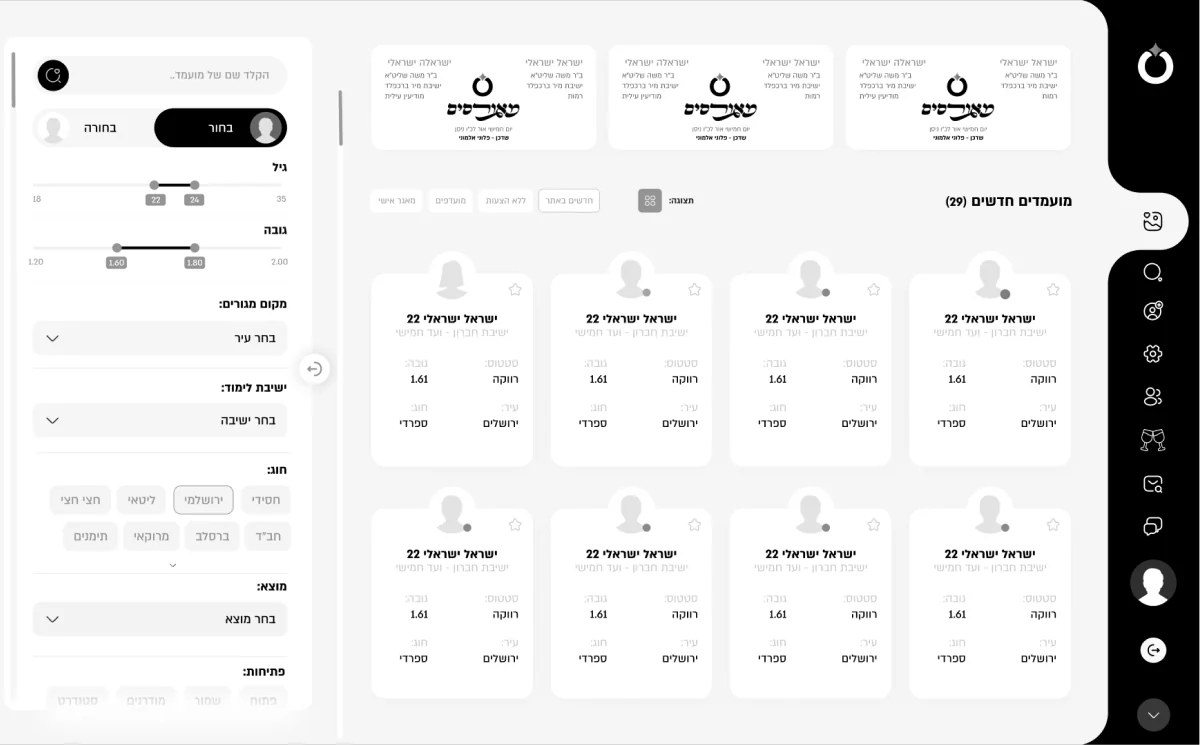
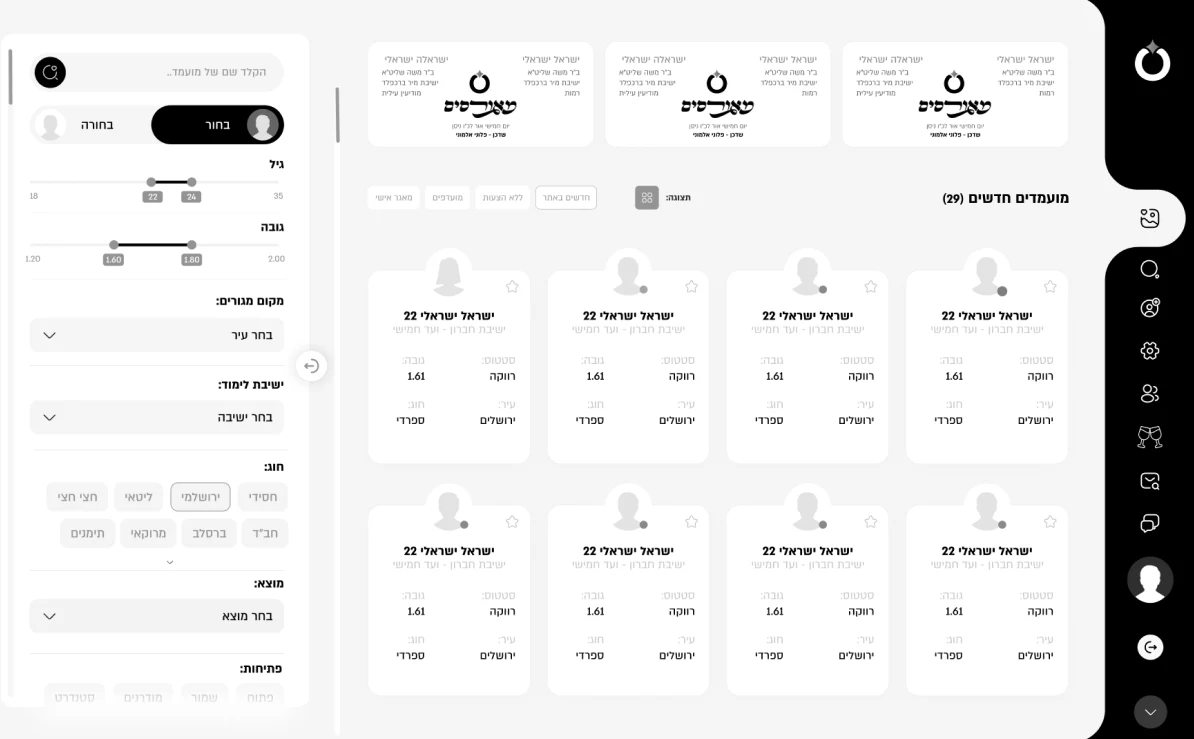
Trim screen edges and realign screen connectors
Removes the light edge lines and white corners from the screen
images, and makes each dashed connector run from one card's edge
to the flat top edge of the next card.

diff --git a/vort/index.html b/vort/index.html
@@ -295,14 +295,14 @@
   <section class="screens" id="screens">
     <div class="sec-head r"><span class="num">07</span><h2>Screens</h2></div>
 
-    <svg class="conn" style="left:1032px;top:738px" width="96" height="112" viewBox="0 0 96 112"><path d="M0 1 H72 A23 23 0 0 1 95 24 V106"/><circle cx="95" cy="108" r="3.5"/></svg>
-    <svg class="conn" style="left:36px;top:1328px;transform:scaleX(-1)" width="96" height="112" viewBox="0 0 96 112"><path d="M0 1 H72 A23 23 0 0 1 95 24 V106"/><circle cx="95" cy="108" r="3.5"/></svg>
-    <svg class="conn" style="left:1032px;top:1934px" width="96" height="112" viewBox="0 0 96 112"><path d="M0 1 H72 A23 23 0 0 1 95 24 V106"/><circle cx="95" cy="108" r="3.5"/></svg>
+    <svg class="conn" style="left:989px;top:619px" width="95" height="154" viewBox="0 0 95 154" aria-hidden="true"><path d="M0 1 H67 A24 24 0 0 1 91 25 V150"/><circle cx="91" cy="150" r="3.5"/></svg>
+    <svg class="conn" style="left:85px;top:1223px" width="95" height="154" viewBox="0 0 95 154" aria-hidden="true"><path d="M95 1 H28 A24 24 0 0 0 4 25 V150"/><circle cx="4" cy="150" r="3.5"/></svg>
+    <svg class="conn" style="left:989px;top:1827px" width="95" height="154" viewBox="0 0 95 154" aria-hidden="true"><path d="M0 1 H67 A24 24 0 0 1 91 25 V150"/><circle cx="91" cy="150" r="3.5"/></svg>
 
-    <div class="scr-card r" style="left:0;top:166px"><div class="mac"><div class="mac-lid"><span class="mac-cam"></span><img class="mac-scr" src="assets/scr-1.webp" alt="Home page – new candidates" width="1200" height="745" loading="lazy"></div><div class="mac-base"><i></i></div></div></div>
-    <div class="scr-card r" style="left:180px;top:770px"><div class="mac"><div class="mac-lid"><span class="mac-cam"></span><img class="mac-scr" src="assets/scr-2.webp" alt="Add new candidate form" width="1344" height="758" loading="lazy"></div><div class="mac-base"><i></i></div></div></div>
-    <div class="scr-card r" style="left:0;top:1374px"><div class="mac"><div class="mac-lid"><span class="mac-cam"></span><img class="mac-scr" src="assets/scr-3.webp" alt="Activity page" width="1400" height="778" loading="lazy"></div><div class="mac-base"><i></i></div></div></div>
-    <div class="scr-card r" style="left:180px;top:1978px"><div class="mac"><div class="mac-lid"><span class="mac-cam"></span><img class="mac-scr" src="assets/scr-4.webp" alt="Activity saved confirmation" width="1333" height="752" loading="lazy"></div><div class="mac-base"><i></i></div></div></div>
+    <div class="scr-card r" style="left:0;top:166px"><div class="mac"><div class="mac-lid"><span class="mac-cam"></span><img class="mac-scr" src="assets/scr-1.webp" alt="Home page – new candidates" width="1194" height="739" loading="lazy"></div><div class="mac-base"><i></i></div></div></div>
+    <div class="scr-card r" style="left:180px;top:770px"><div class="mac"><div class="mac-lid"><span class="mac-cam"></span><img class="mac-scr" src="assets/scr-2.webp" alt="Add new candidate form" width="1338" height="752" loading="lazy"></div><div class="mac-base"><i></i></div></div></div>
+    <div class="scr-card r" style="left:0;top:1374px"><div class="mac"><div class="mac-lid"><span class="mac-cam"></span><img class="mac-scr" src="assets/scr-3.webp" alt="Activity page" width="1394" height="772" loading="lazy"></div><div class="mac-base"><i></i></div></div></div>
+    <div class="scr-card r" style="left:180px;top:1978px"><div class="mac"><div class="mac-lid"><span class="mac-cam"></span><img class="mac-scr" src="assets/scr-4.webp" alt="Activity saved confirmation" width="1311" height="730" loading="lazy"></div><div class="mac-base"><i></i></div></div></div>
   </section>
 
   <!-- ============ MOCKUPS ============ -->

diff --git a/vort/vort.css b/vort/vort.css
@@ -278,7 +278,7 @@ button{font:inherit;border:0;background:none;cursor:pointer;color:inherit}
 .mac-scr{display:block;width:100%;height:auto;border-radius:5px}
 .mac-base{position:relative;width:calc(100% + 96px);margin-left:-48px;height:17px;background:linear-gradient(#f1f2f4,#c9ccd1 55%,#9a9ea4);border-radius:3px 3px 16px 16px;box-shadow:0 22px 30px -18px rgba(0,0,0,.45)}
 .mac-base i{position:absolute;left:50%;top:0;width:130px;height:7px;margin-left:-65px;background:linear-gradient(#bfc2c7,#a4a8ae);border-radius:0 0 9px 9px}
-.conn{position:absolute;overflow:visible}
+.conn{position:absolute;overflow:visible;z-index:2}
 .conn path{stroke:#8a8a8a;stroke-width:1.5;stroke-dasharray:4 4;fill:none}
 .conn circle{fill:#8a8a8a}
 .conn{-webkit-mask:linear-gradient(90deg,#000 50%,transparent 50%) 100% 0/200% 100% no-repeat;mask:linear-gradient(90deg,#000 50%,transparent 50%) 100% 0/200% 100% no-repeat;transition:-webkit-mask-position 1.4s var(--ease),mask-position 1.4s var(--ease)}
